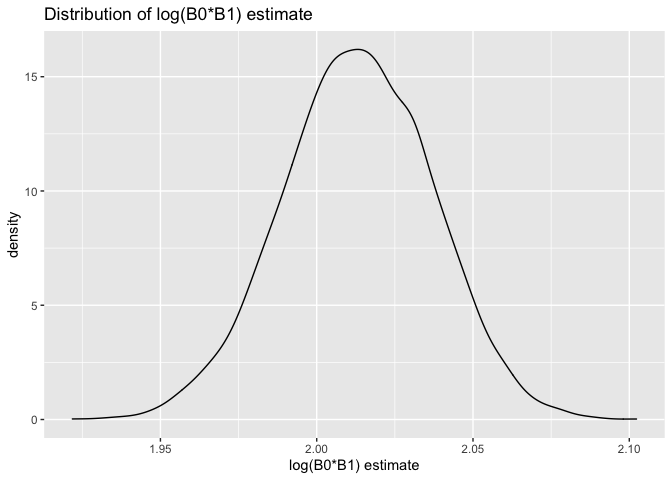
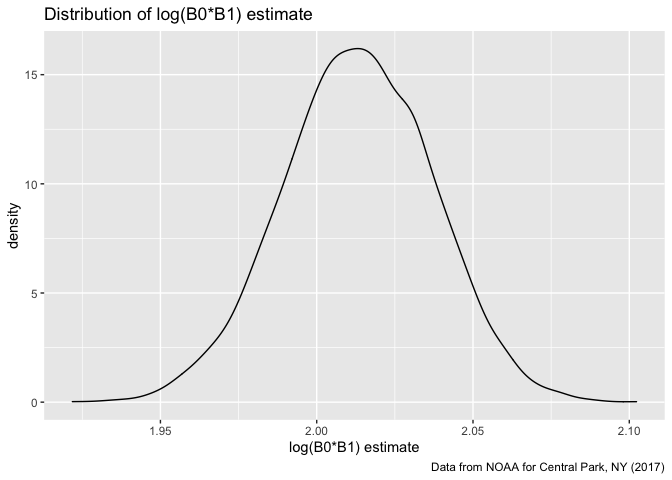
final commit

diff --git a/p8105_hw6_lmt2203.md b/p8105_hw6_lmt2203.md
@@ -327,7 +327,7 @@ weather_boot_results =
     ## Warning: unnest() has a new interface. See ?unnest for details.
     ## Try `df %>% unnest(c(results, glance))`, with `mutate()` if needed
 
-\*\*Distribution of R-squared and log(B0\*B1) estimates\*\*
+Distribution of R-squared and log(B0\*B1) estimates
 
 ``` r
 weather_boot_results %>% 
@@ -335,7 +335,8 @@ weather_boot_results %>%
   geom_density() +
   labs(
     x = "r-squared estimate",
-    title = "Distribution of R-squared Estimate"
+    title = "Distribution of R-squared Estimate",
+    caption = "Data from NOAA for Central Park, NY (2017)"
   )
 ```
 
@@ -347,7 +348,8 @@ weather_boot_results %>%
   geom_density() +
   labs(
     x = "log(B0*B1) estimate",
-    title = "Distribution of log(B0*B1) estimate"
+    title = "Distribution of log(B0*B1) estimate",
+    caption = "Data from NOAA for Central Park, NY (2017)"
   )
 ```
 
